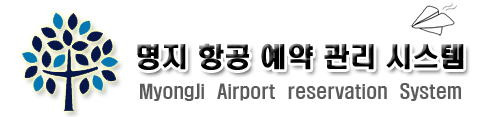
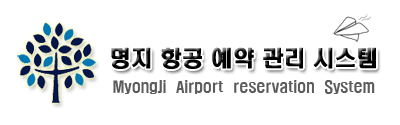
a

Changed region(s): [[0.03, 0.1026, 0.96, 1.0], [0.81, 0.0256, 0.93, 0.3333]]

diff --git a/index.html b/index.html
@@ -62,7 +62,10 @@
 				buttonText          : "Calendar",
 				buttonImage        : "/img/calendar.gif"
 			});  
-			$( ".datepicker" ).datepicker();
+			$(".datepicker").datepicker();
+			$("#search_result_table tr").focus(function(){
+				$(this).css('background-color', '#333333');
+			});
         });
     </script>
 </head>
@@ -120,7 +123,7 @@
             <div id="contentcolumn">
                 <div class="innertube">
                     <h3>가는 항공편</h3>
-                    <table class="table_style1">
+                    <table id="search_result_table" class="table_style1">
                         <tr>
                             <th>항공사</th>
                             <th>편명</th>
@@ -129,6 +132,24 @@
                             <th>가격</th>
                             <th>잔여</th>
                             <th>가능</th>
+                        </tr>
+                        <tr>
+                            <td>대한항공</td>
+                            <td>KE1200편</td>
+                            <td>10.24 06:50</td>
+                            <td>일반석</td>
+                            <td>82,000</td>
+                            <td>9</td>
+                            <td>가능</td>
+                        </tr>
+                        <tr>
+                            <td>대한항공</td>
+                            <td>KE1200편</td>
+                            <td>10.24 06:50</td>
+                            <td>일반석</td>
+                            <td>82,000</td>
+                            <td>9</td>
+                            <td>가능</td>
                         </tr>
                         <tr>
                             <td>대한항공</td>
@@ -150,7 +171,7 @@
                         </tr>
                     </table>
                     <h3>오는 항공편</h3>
-                    <table class="table_style1">
+                    <table id="search_result_table" class="table_style1">
                         <tr>
                             <th>항공사</th>
                             <th>편명</th>
@@ -169,9 +190,18 @@
                             <td>9</td>
                             <td>가능</td>
                         </tr>
+                        <tr>
+                            <td>대한항공</td>
+                            <td>KE1200편</td>
+                            <td>10.24 06:50</td>
+                            <td>일반석</td>
+                            <td>82,000</td>
+                            <td>9</td>
+                            <td>가능</td>
+                        </tr>
                     </table>
                     <h3>최종선택/예약</h3>
-                    <table class="table_style1">
+                    <table id="search_result_table" class="table_style1">
                         <tr>
                             <th></th>
                             <th>항공편</th>
@@ -194,11 +224,12 @@
                             <td>10.24 (수) 07:55</td>
                         </tr>
                     </table>
-                    <h4>예상요금</h4>
-                    <div id="fee">127,600원</div>
-                    <p>(유류할증료 및 공항세 불포함)</p>
-                    <input type="button" value="예약하기" />
-                </div>
+					<div id="fee">
+						예상요금 <span>127,600원</span>
+						<p>(유류할증료 및 공항세 불포함)</p>
+						<input type="button" value="예약하기" />
+					</div>
+				</div>
             </div>
         </div>
             
@@ -220,6 +251,7 @@
                             <li><a href="#">서버 점검으로 인한 사이트 이용안내 입니다.</a> <span class="date">2009.10.15</span></li>
                             <li><a href="#">여러분들이 생각하는 웹 접근성에 대해 이야긴..</a> <span class="date">2009.10.15</span></li>
                         </ul>
+						<p class="more"><a href="#" >더보기</a></p>
                     </div>
                     <div id="pdsList">
                         <ul>
@@ -229,8 +261,8 @@
                             <li><a href="#">웹 접근성 향상을 위한 국가표준 기술 가이드 라인</a> <span class="date">2009.10.15</span></li>
                             <li><a href="#">로얄티 프리 이미지 자료</a> <span class="date">2009.10.15</span></li>
                         </ul>
+					    <p class="more"><a href="#" >더보기</a></p>
                     </div>
-                    <p class="more">더보기</p>
                 </div>
                 
                 <div id="translate_tab">
@@ -434,7 +466,19 @@
         </div>
         
         <div id="rightcolumn">
-            <div class="innertube"><b>Right Column: <em>190px</em></b></div>
+			<div id="quick_menu">
+				<div class="innertube">
+					<p>quick menu</p>
+					<ul>
+						<li><a href="#"><img src="./images/quick_menu/user.png" alt="사용자정보수정" /></a></li>
+						<li><a href="#"><img src="./images/quick_menu/email.png" alt="이메일문의" /></a></li>
+						<li><a href="#"><img src="./images/quick_menu/contact.png" alt="전화문의" /></a></li>
+						<li><a href="#"><img src="./images/quick_menu/order.png" alt="예약현황보기" /></a></li>
+						<li><a href="#"><img src="./images/quick_menu/print.png" alt="티켓프린트하기" /></a></li>
+						<li><a href="#"><img src="./images/quick_menu/settings.png" alt="환경설정" /></a></li>
+					</ul>
+				</div>
+			</div>
         </div>
         
         <div id="footer">

diff --git a/styleSheet/myStyle.css b/styleSheet/myStyle.css
@@ -33,7 +33,9 @@ width: 100%;
 }
 
 #contentcolumn{
-margin: 0 100px 0 400px; /*Margins for content column. Should be "0 RightColumnWidth 0 LeftColumnWidth*/
+overflow-y:scroll;
+height:430px;
+margin: 10px 100px 20px 400px; /*Margins for content column. Should be "0 RightColumnWidth 0 LeftColumnWidth*/
 }
 
 #leftcolumn{
@@ -46,12 +48,12 @@ margin-left: -960px; /*Set margin to that of -(MainContainerWidth)*/
 float: left;
 width: 100px; /*Width of right column*/
 margin-left: -100px; /*Set left margin to -(RightColumnWidth)*/
-background: #FDE95E;
 }
 
 #footer{
 clear: left;
 width: 100%;
+height: 50px;
 background-color: #024C68;
 color: #FFF;
 text-align: center;
@@ -71,13 +73,22 @@ margin-top: 0;
 /* myStyle START*/
 #title{
 display: inline-block;
-width: 492px;  /*Width of title image file*/
-height: 117px;  /*Height of title image file*/
-margin-bottom:10px;
-margin-right:40px; /*title image margin-right (align-center)*/
+width: 400px;  /*Width of title image file*/
+height: 125px;  /*Height of title image file*/
+margin-bottom: 10px;
+margin-right: 20px; /*title image margin-right (align-center)*/
 text-indent: -5000px;
 background-image: url("../images/title.png");
 background-repeat: no-repeat;
+}
+
+#search_result_table{
+width: 420px;
+}
+
+#fee{
+margin-top:10px;
+text-align:right;
 }
 
 #notice_tab{
@@ -92,14 +103,31 @@ float: right;
 #notice_tab li{
 padding: 2px;
 }
-#notice_tab p{
+#notice_tab .more{
 position: absolute;
-right: 0;
-top: 0;
+right: 4px;
+top: 7px;
+}
+#notice_tab .more a{
+text-decoration: none;
 }
 
 #translate_tab{
-margin-top:20px;
+margin-top: 20px;
+}
+
+table#internal{
+width: 335px;
+}
+table#oversea{
+width: 335px;
+}
+
+#quick_menu{
+padding-top: 10px;
+}
+#quick_menu li{
+padding-top: 20px;
 }
 
 /* form_style START */
@@ -141,11 +169,12 @@ margin-left: 3px;
 
 /* membership menu START */
 #membershipwrap {
-float:left;
-width:960px;
+float: left;
+width: 960px;
+height: 1px;
 }
 #membership {
-float:right;
+float: right;
 margin-top:5px;
 font-size: 12px;
 }

diff --git a/styleSheet/jquery-ui-1.9.0.custom.css b/styleSheet/jquery-ui-1.9.0.custom.css
@@ -230,7 +230,7 @@ body .ui-tooltip { border-width:2px; }
 .ui-widget input, .ui-widget select, .ui-widget textarea, .ui-widget button { font-family: Trebuchet MS,Tahoma,Verdana,Arial,sans-serif; font-size: 1em; }
 .ui-widget-content { border: 1px solid #dddddd; background: #ffffff 50% top repeat-x; color: #333333; }
 .ui-widget-content a { color: #333333; }
-.ui-widget-header { border: 1px solid #024C68; background: #226078 50% 50% repeat-x; color: #ffffff; font-weight: bold; }
+.ui-widget-header { border: 1px solid #024C68; background: #62B1D0 50% 50% repeat-x; color: #ffffff; font-weight: bold; }
 .ui-widget-header a { color: #ffffff; }
 
 /* Interaction states
